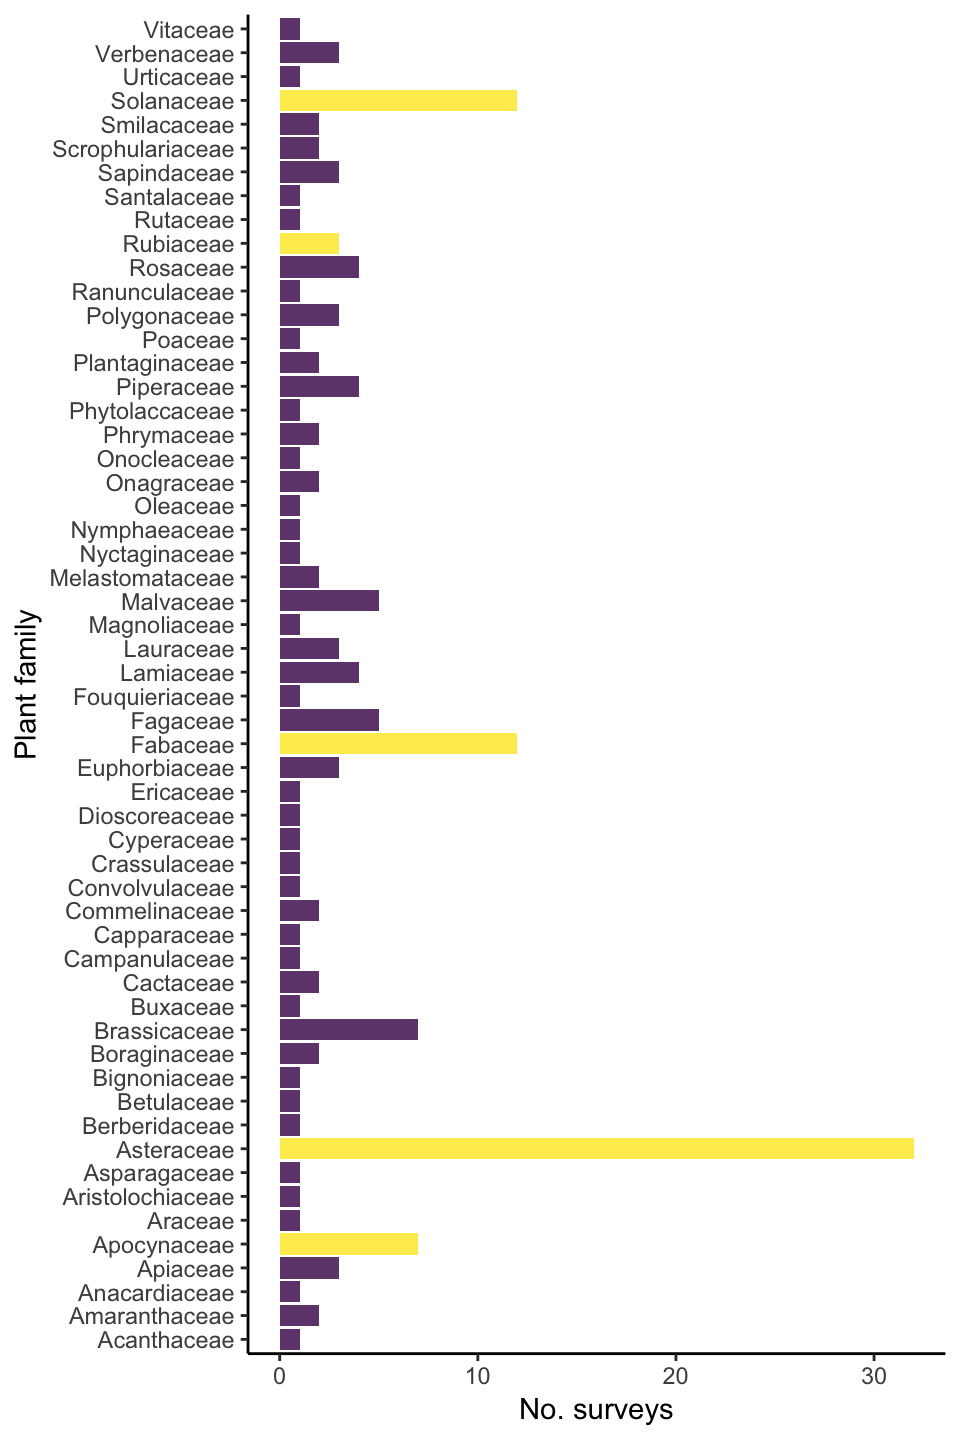
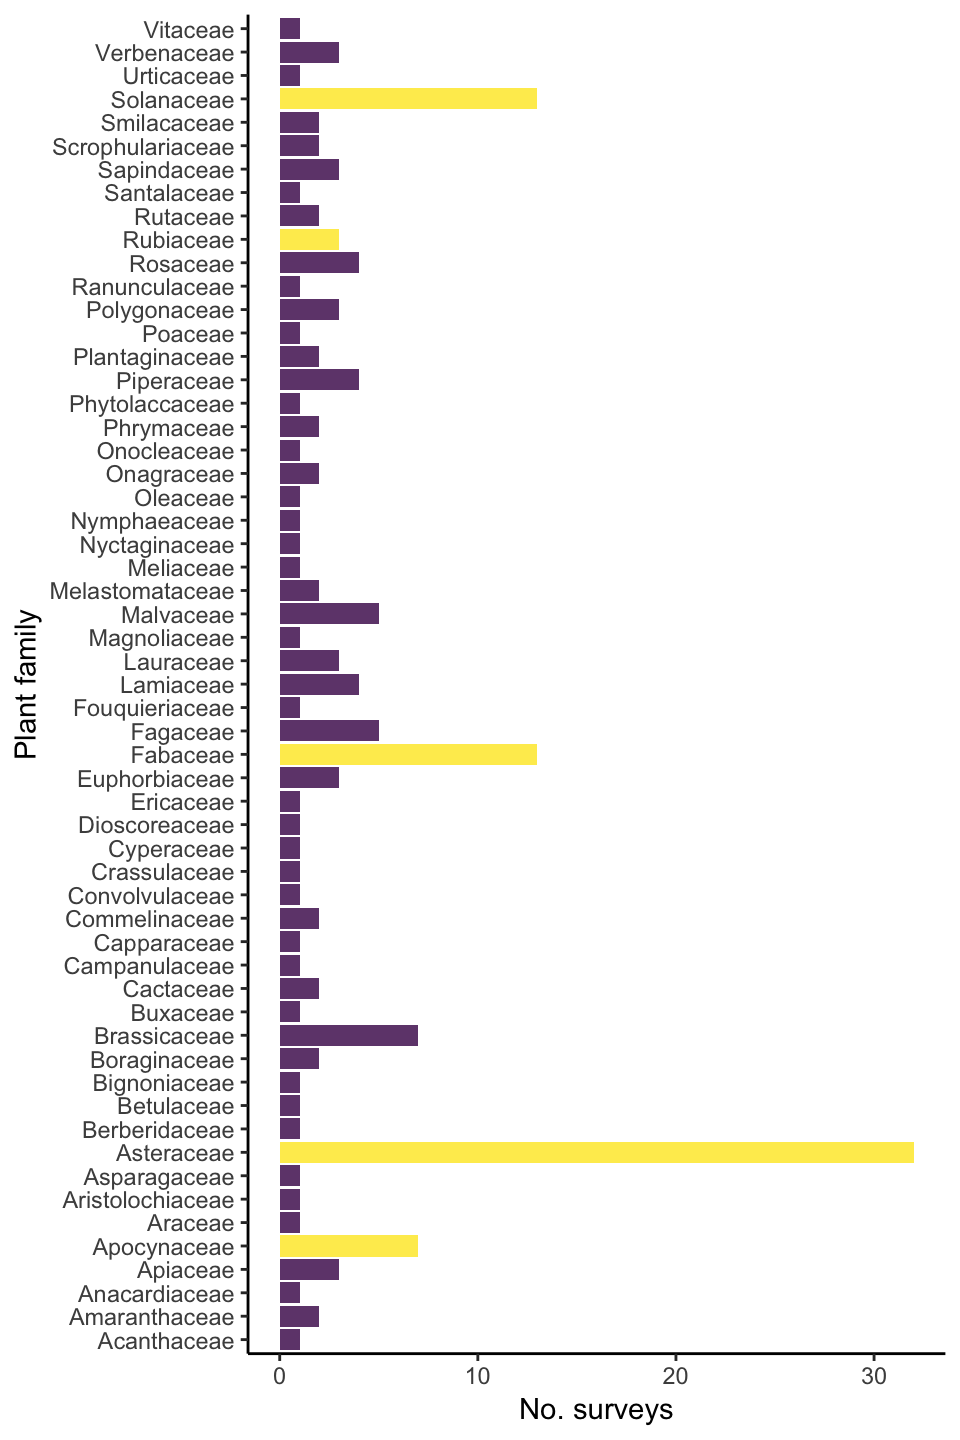
new surveys

Changed region(s): [[0.0625, 0.0312, 0.25, 0.9375], [0.2812, 0.0938, 0.9375, 0.875], [0.5312, 0.0625, 0.5625, 0.0938]]

diff --git a/status.html b/status.html
@@ -218,7 +218,7 @@ $(document).ready(function () {
 </div>
 
 
-<p>The Herbivory Variability Network has completed 165 surveys on 139 plant species from 56 plant families. These figures and tables update as new data are entered into our database, so check back often!</p>
+<p>The Herbivory Variability Network has completed 169 surveys on 143 plant species from 57 plant families. These figures and tables update as new data are entered into our database, so check back often!</p>
 <p>We have a three-scaled sampling approach:</p>
 <ol style="list-style-type: decimal">
 <li>Sampling one plant species from as many plant families as possible</li>
@@ -336,135 +336,143 @@ Sampling areas with at least one completed survey (yellow) and planned sampling 
 <td align="left">3</td>
 </tr>
 <tr class="even">
+<td align="left"><em>Bauhinia brevipes</em></td>
+<td align="left">1</td>
+</tr>
+<tr class="odd">
 <td align="left"><em>Brasenia schreberi</em></td>
 <td align="left">1</td>
 </tr>
-<tr class="odd">
+<tr class="even">
 <td align="left"><em>Brassica oleracea</em></td>
 <td align="left">1</td>
 </tr>
-<tr class="even">
+<tr class="odd">
 <td align="left"><em>Bridelia crenulata</em></td>
 <td align="left">1</td>
 </tr>
-<tr class="odd">
+<tr class="even">
 <td align="left"><em>Buxus sempervirens</em></td>
 <td align="left">1</td>
 </tr>
-<tr class="even">
+<tr class="odd">
 <td align="left"><em>Campanula persicifolia</em></td>
 <td align="left">1</td>
 </tr>
-<tr class="odd">
+<tr class="even">
 <td align="left"><em>Capparis erythrocarpos</em></td>
 <td align="left">1</td>
 </tr>
-<tr class="even">
+<tr class="odd">
 <td align="left"><em>Carpinus caroliniana</em></td>
 <td align="left">1</td>
 </tr>
-<tr class="odd">
+<tr class="even">
 <td align="left"><em>Castanea sativa</em></td>
 <td align="left">1</td>
 </tr>
-<tr class="even">
+<tr class="odd">
 <td align="left"><em>Catalpa speciosa</em></td>
 <td align="left">1</td>
 </tr>
-<tr class="odd">
+<tr class="even">
 <td align="left"><em>Cephalanthus occidentalis</em></td>
 <td align="left">1</td>
 </tr>
-<tr class="even">
+<tr class="odd">
 <td align="left"><em>Cercis canadensis</em></td>
 <td align="left">1</td>
 </tr>
-<tr class="odd">
+<tr class="even">
 <td align="left"><em>Chamaenerion angustifolium</em></td>
 <td align="left">1</td>
 </tr>
-<tr class="even">
+<tr class="odd">
 <td align="left"><em>Chenopodium album</em></td>
 <td align="left">2</td>
 </tr>
-<tr class="odd">
+<tr class="even">
 <td align="left"><em>Chimaphila umbellata</em></td>
 <td align="left">1</td>
 </tr>
-<tr class="even">
+<tr class="odd">
 <td align="left"><em>Circaea lutetiana</em></td>
 <td align="left">1</td>
 </tr>
-<tr class="odd">
+<tr class="even">
 <td align="left"><em>Cirsium arvense</em></td>
 <td align="left">1</td>
 </tr>
-<tr class="even">
+<tr class="odd">
 <td align="left"><em>Cissus vitiginea</em></td>
 <td align="left">1</td>
 </tr>
-<tr class="odd">
+<tr class="even">
 <td align="left"><em>Clidemia heterophylla</em></td>
 <td align="left">1</td>
 </tr>
-<tr class="even">
+<tr class="odd">
 <td align="left"><em>Coccoloba cereifera</em></td>
 <td align="left">1</td>
 </tr>
-<tr class="odd">
+<tr class="even">
 <td align="left"><em>Coccoloba uvifera</em></td>
 <td align="left">1</td>
 </tr>
-<tr class="even">
+<tr class="odd">
 <td align="left"><em>Conoclinium coelestinum</em></td>
 <td align="left">1</td>
 </tr>
-<tr class="odd">
+<tr class="even">
 <td align="left"><em>Croton capitatus</em></td>
 <td align="left">1</td>
 </tr>
-<tr class="even">
+<tr class="odd">
 <td align="left"><em>Cryptantha cinerea</em></td>
 <td align="left">1</td>
 </tr>
-<tr class="odd">
+<tr class="even">
 <td align="left"><em>Cyperus esculentus</em></td>
 <td align="left">1</td>
 </tr>
-<tr class="even">
+<tr class="odd">
 <td align="left"><em>Desmodium gangeticum</em></td>
 <td align="left">1</td>
 </tr>
-<tr class="odd">
+<tr class="even">
 <td align="left"><em>Desmodium glutinosum</em></td>
 <td align="left">1</td>
 </tr>
-<tr class="even">
+<tr class="odd">
 <td align="left"><em>Dioscorea racemosa</em></td>
 <td align="left">1</td>
 </tr>
-<tr class="odd">
+<tr class="even">
 <td align="left"><em>Diplotaxis erucoides</em></td>
 <td align="left">1</td>
 </tr>
-<tr class="even">
+<tr class="odd">
 <td align="left"><em>Dudleya farinosa</em></td>
 <td align="left">1</td>
 </tr>
-<tr class="odd">
+<tr class="even">
 <td align="left"><em>Echinacea purpurea</em></td>
 <td align="left">2</td>
 </tr>
-<tr class="even">
+<tr class="odd">
 <td align="left"><em>Enemion biternatum</em></td>
 <td align="left">1</td>
 </tr>
-<tr class="odd">
+<tr class="even">
 <td align="left"><em>Erigeron glaucus</em></td>
 <td align="left">1</td>
 </tr>
-<tr class="even">
+<tr class="odd">
 <td align="left"><em>Erigeron strigosus</em></td>
+<td align="left">1</td>
+</tr>
+<tr class="even">
+<td align="left"><em>Erythrochiton brasiliensis</em></td>
 <td align="left">1</td>
 </tr>
 <tr class="odd">
@@ -724,31 +732,39 @@ Sampling areas with at least one completed survey (yellow) and planned sampling 
 <td align="left">1</td>
 </tr>
 <tr class="odd">
+<td align="left"><em>Solanum lycocarpum</em></td>
+<td align="left">1</td>
+</tr>
+<tr class="even">
 <td align="left"><em>Solanum ptychanthum</em></td>
 <td align="left">1</td>
 </tr>
-<tr class="even">
+<tr class="odd">
 <td align="left"><em>Solanum sp</em></td>
 <td align="left">1</td>
 </tr>
-<tr class="odd">
+<tr class="even">
 <td align="left"><em>Solanum tridynamum</em></td>
 <td align="left">1</td>
 </tr>
-<tr class="even">
+<tr class="odd">
 <td align="left"><em>Solidago altissima</em></td>
 <td align="left">4</td>
 </tr>
-<tr class="odd">
+<tr class="even">
 <td align="left"><em>Solidago canadensis/altissima</em></td>
 <td align="left">1</td>
 </tr>
-<tr class="even">
+<tr class="odd">
 <td align="left"><em>Solidago missouriensis</em></td>
 <td align="left">1</td>
 </tr>
-<tr class="odd">
+<tr class="even">
 <td align="left"><em>Solidago speciosa</em></td>
+<td align="left">1</td>
+</tr>
+<tr class="odd">
+<td align="left"><em>Swietena nacronthylla</em></td>
 <td align="left">1</td>
 </tr>
 <tr class="even">
